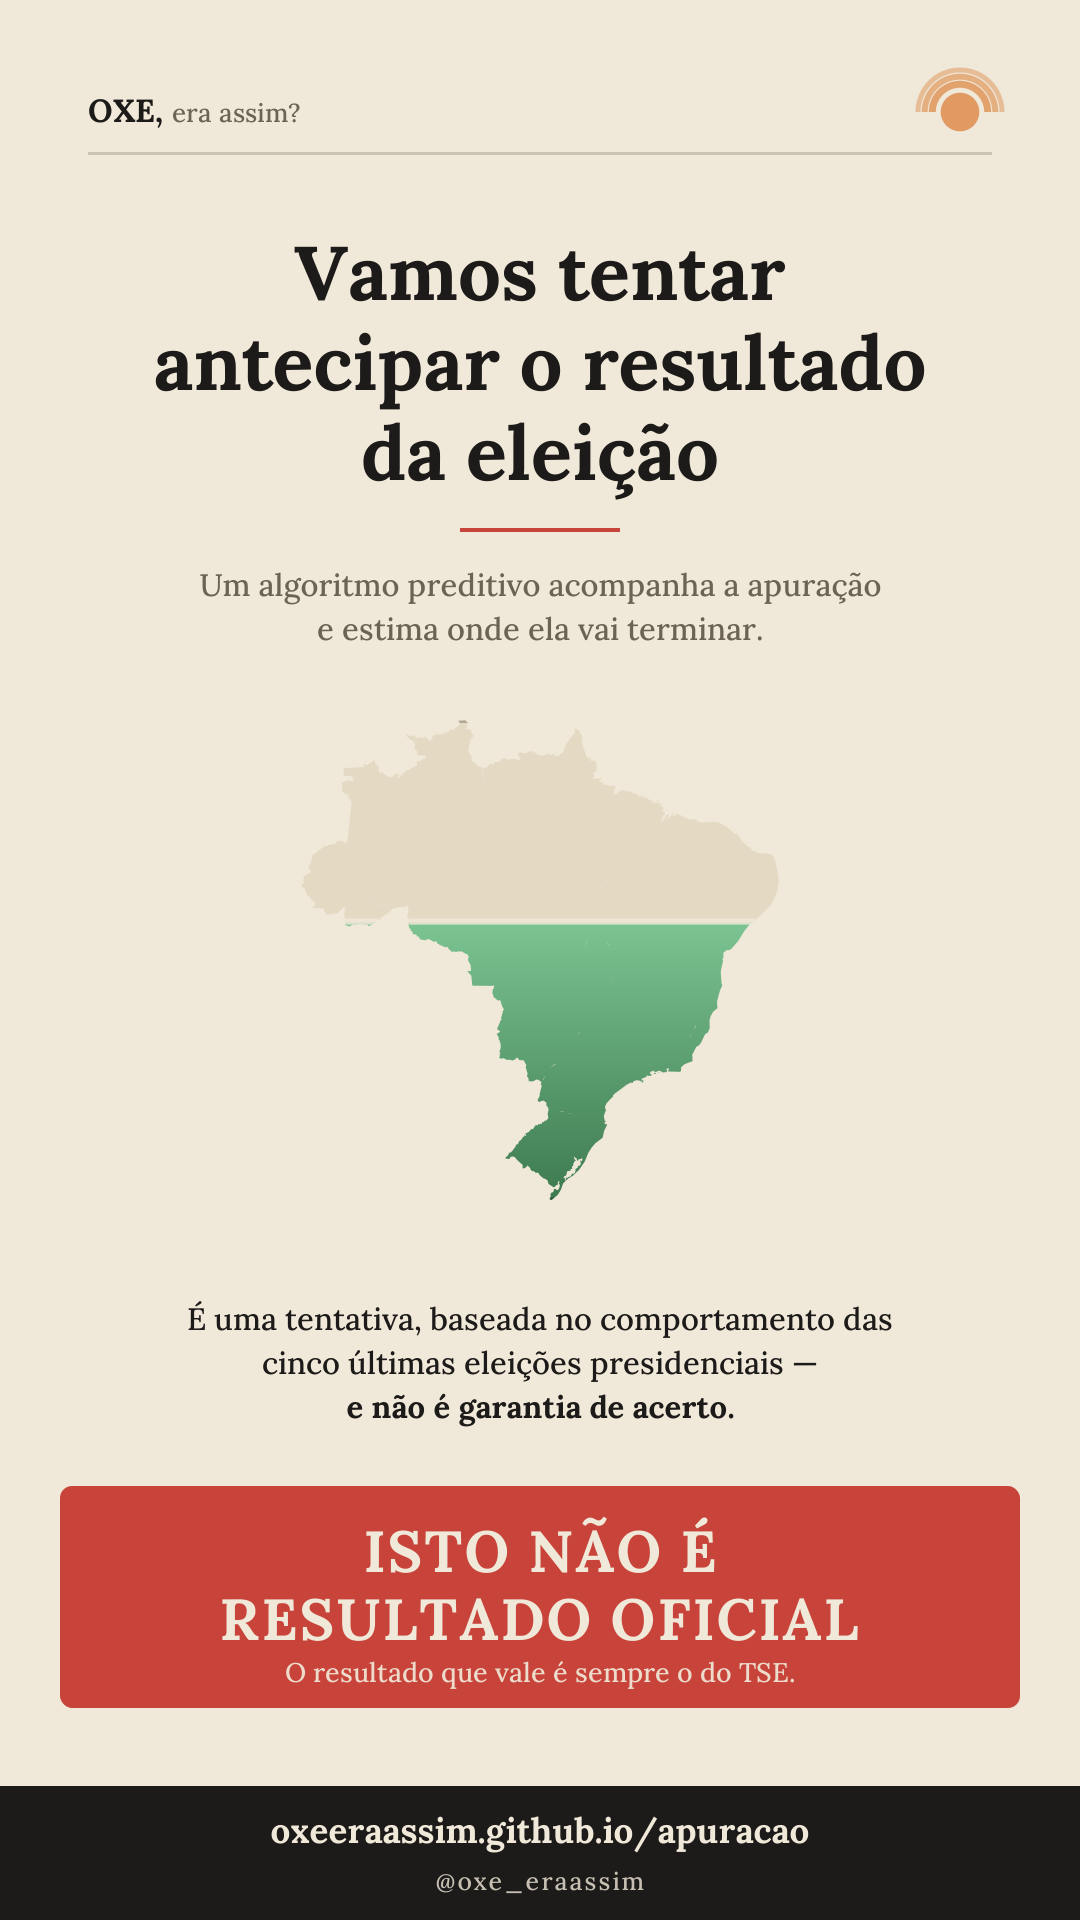
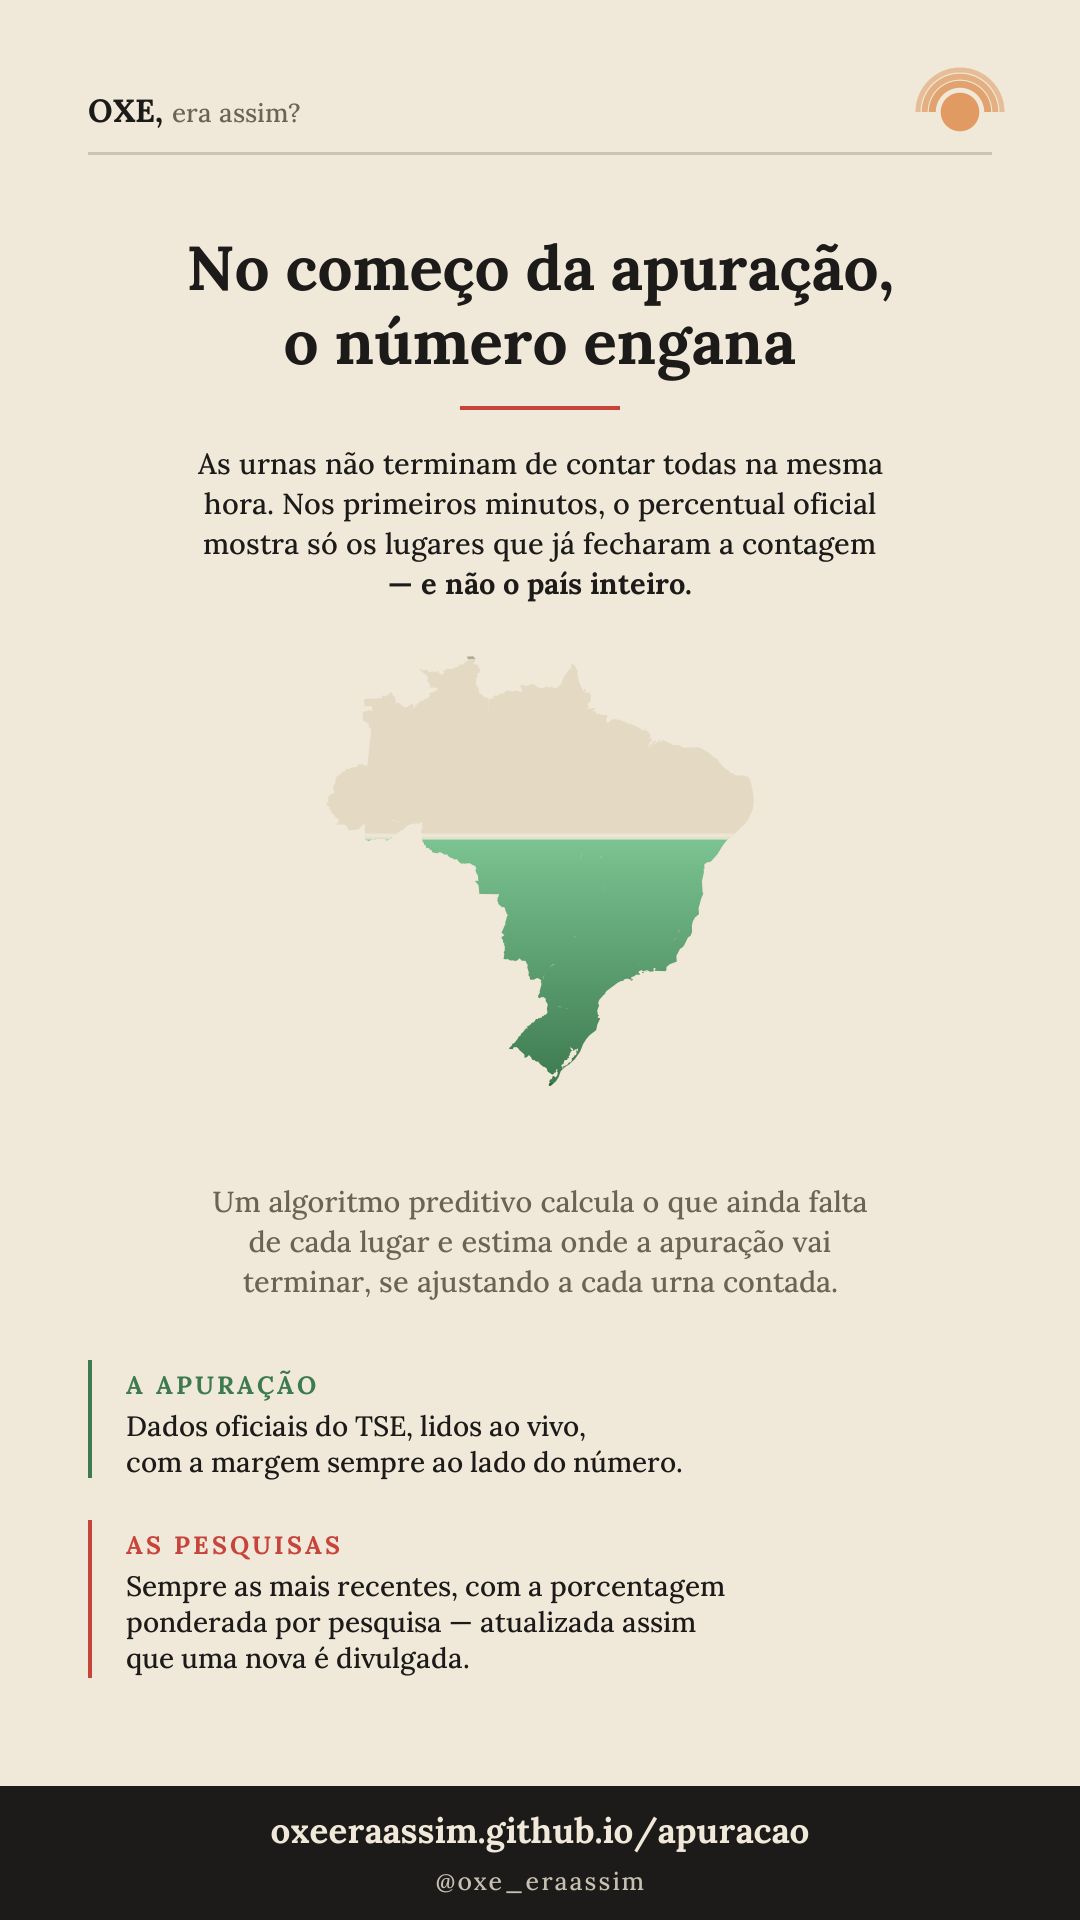
Enquanto a disputa couber na margem, a pagina diz que nao sabe
Antes, com a margem cruzando os 50%, a pagina exibia "Chance estimada de
vitoria: 93% para Fulano". Os dois lados ainda cabiam dentro da margem — ou
seja, o modelo nao sabia quem ganhou — e o numero de aparencia precisa
escondia exatamente isso.

Nao e preciosismo estatistico: e o que impede a pagina de virar municao. Um
print de "93% de chance de vitoria" as 17h20, sem a margem ao lado, circula
sozinho e perde o contexto em dois encaminhamentos. Agora, enquanto a
diferenca couber na margem, a frase e "a diferenca esta dentro da margem de
erro — ainda nao da para dizer quem ganhou".

Isso tambem e o que os stories de divulgacao prometem, entao a pagina
precisava cumprir antes de a divulgacao sair.

Divulgacao refeita junto: o gancho deixou de ser "vamos antecipar o
resultado" (que soa como quem vai dar o vencedor antes da hora) e passou a
ser "no comeco da apuracao, o numero engana" — mesma curiosidade, e descreve
o que a pagina de fato faz. Slide 2 ganhou o bloco SEM LADO: nao torce, nao
declara vencedor, mostra sempre a margem.

Claude-Session: https://claude.ai/code/session_01GYPZVw83ZkJR9nadBr32Ea

Changed region(s): [[0.0306, 0.4375, 0.9472, 0.9062], [0.1222, 0.125, 0.8556, 0.3438], [0.7944, 0.6875, 0.825, 0.7188]]

diff --git a/index.html b/index.html
@@ -963,8 +963,22 @@ function pinta(r, falhas, totais, horaTSE, observado) {
 
   const p = r.probPl;
   let txt;
+  // Quando a margem cruza os 50%, os dois lados ainda cabem dentro dela: o
+  // modelo simplesmente não sabe quem ganhou, e dizer "chance estimada de
+  // vitória: 93% para Fulano" esconde isso atrás de um número de aparência
+  // precisa.
+  //
+  // Isso não é preciosismo estatístico, é o que impede a página de virar
+  // munição. Um print de "93% de chance de vitória" às 17h20, sem a margem
+  // ao lado, circula sozinho e some do contexto em dois encaminhamentos.
+  // Enquanto a disputa couber na margem, a página diz exatamente isso.
+  const dentroDaMargem = r.faixaPl && r.faixaPl[0] < 50 && r.faixaPl[1] > 50;
+
   if (r.pctApurado < 1) {
     txt = "Apuração ainda muito inicial — abaixo de 1% a projeção é instável.";
+  } else if (dentroDaMargem) {
+    txt = "A diferença está dentro da margem de erro — ainda não dá para "
+        + "dizer quem ganhou.";
   } else if (p > 0.995) {
     txt = "O modelo dá mais de 99% de chance de vitória de " + nomes.pl + ".";
   } else if (p < 0.005) {
@@ -1675,7 +1689,7 @@ async function calcularAcerto() {
 // TSE) e é o que torna a instalação possível.
 if ("serviceWorker" in navigator && location.protocol.startsWith("http")) {
   window.addEventListener("load", () => {
-    navigator.serviceWorker.register("./sw.js?v=fbe5cac7f0").then((reg) => {
+    navigator.serviceWorker.register("./sw.js?v=d4ab9852bf").then((reg) => {
       // Procura versão nova ao abrir e de hora em hora. Uma aba deixada
       // aberta a noite toda recebe as correções sozinha.
       reg.update().catch(() => {});

diff --git a/apuracao.html b/apuracao.html
@@ -1442,8 +1442,22 @@ function pinta(r, falhas, totais, horaTSE, observado) {
 
   const p = r.probPl;
   let txt;
+  // Quando a margem cruza os 50%, os dois lados ainda cabem dentro dela: o
+  // modelo simplesmente não sabe quem ganhou, e dizer "chance estimada de
+  // vitória: 93% para Fulano" esconde isso atrás de um número de aparência
+  // precisa.
+  //
+  // Isso não é preciosismo estatístico, é o que impede a página de virar
+  // munição. Um print de "93% de chance de vitória" às 17h20, sem a margem
+  // ao lado, circula sozinho e some do contexto em dois encaminhamentos.
+  // Enquanto a disputa couber na margem, a página diz exatamente isso.
+  const dentroDaMargem = r.faixaPl && r.faixaPl[0] < 50 && r.faixaPl[1] > 50;
+
   if (r.pctApurado < 1) {
     txt = "Apuração ainda muito inicial — abaixo de 1% a projeção é instável.";
+  } else if (dentroDaMargem) {
+    txt = "A diferença está dentro da margem de erro — ainda não dá para "
+        + "dizer quem ganhou.";
   } else if (p > 0.995) {
     txt = "O modelo dá mais de 99% de chance de vitória de " + nomes.pl + ".";
   } else if (p < 0.005) {

diff --git a/sw.js b/sw.js
@@ -12,7 +12,7 @@
  *   não existir.
  */
 
-const VERSAO = "apuracao-fbe5cac7f0";
+const VERSAO = "apuracao-d4ab9852bf";
 
 // Só estes dois destinos externos são buscados pela página. Qualquer outro é
 // recusado aqui, de modo que nem um script injetado conseguiria usar o

diff --git a/programa/gerar_stories.py b/programa/gerar_stories.py
@@ -119,37 +119,55 @@ def mapa_svg(dy, alvo):
 
 
 def slide_1() -> str:
-    """O que é, e o aviso. Este é o slide que para o dedo."""
+    """O problema que a página resolve. Este é o slide que para o dedo."""
     p = [f'<svg xmlns="http://www.w3.org/2000/svg" width="{L}" height="{A}" '
          f'viewBox="0 0 {L} {A}">',
          f'<rect width="{L}" height="{A}" fill="{PAPEL}"/>',
          cabecalho()]
 
-    p.append(txt(L / 2, 300, "Vamos tentar", 76, "700"))
-    p.append(txt(L / 2, 390, "antecipar o resultado", 76, "700"))
-    p.append(txt(L / 2, 480, "da eleição", 76, "700"))
-    p.append(f'<rect x="{L / 2 - 80}" y="528" width="160" height="4" '
+    # O gancho é o problema, não a promessa. "Vamos antecipar o resultado"
+    # soa como quem vai dar o vencedor antes da hora — e é assim que um
+    # print da tela vira munição de campanha. "O número engana" desperta a
+    # mesma curiosidade e descreve o que a página realmente faz.
+    p.append(txt(L / 2, 290, "No começo da apuração,", 62, "700"))
+    p.append(txt(L / 2, 364, "o número engana", 62, "700"))
+    p.append(f'<rect x="{L / 2 - 80}" y="406" width="160" height="4" '
              f'fill="{VERMELHO}"/>')
 
-    p.append(txt(L / 2, 596, "Um algoritmo preditivo acompanha a apuração", 31,
-                 "400", TINTA_FRACA))
-    p.append(txt(L / 2, 640, "e estima onde ela vai terminar.", 31, "400",
-                 TINTA_FRACA))
-
-    p.append(mapa_svg(720, 480))
-
-    p.append(txt(L / 2, 1330, "É uma tentativa, baseada no comportamento das", 31,
+    p.append(txt(L / 2, 474, "As urnas não terminam de contar todas na mesma", 29,
                  "400", TINTA))
-    p.append(txt(L / 2, 1374, "cinco últimas eleições presidenciais —", 31, "400",
-                 TINTA))
-    p.append(txt(L / 2, 1418, "e não é garantia de acerto.", 31, "700", TINTA))
+    p.append(txt(L / 2, 514, "hora. Nos primeiros minutos, o percentual oficial", 29,
+                 "400", TINTA))
+    p.append(txt(L / 2, 554, "mostra só os lugares que já fecharam a contagem", 29,
+                 "400", TINTA))
+    p.append(txt(L / 2, 594, "— e não o país inteiro.", 29, "700", TINTA))
 
-    p.append(f'<rect x="60" y="1486" width="{L - 120}" height="222" rx="12" '
-             f'fill="{VERMELHO}"/>')
-    p.append(txt(L / 2, 1572, "ISTO NÃO É", 58, "700", PAPEL, esp="2"))
-    p.append(txt(L / 2, 1640, "RESULTADO OFICIAL", 58, "700", PAPEL, esp="2"))
-    p.append(txt(L / 2, 1682, "O resultado que vale é sempre o do TSE.", 27, "400",
-                 PAPEL, op="0.92"))
+    p.append(mapa_svg(656, 430))
+
+    p.append(txt(L / 2, 1212, "Um algoritmo preditivo calcula o que ainda falta", 29,
+                 "400", TINTA_FRACA))
+    p.append(txt(L / 2, 1252, "de cada lugar e estima onde a apuração vai", 29,
+                 "400", TINTA_FRACA))
+    p.append(txt(L / 2, 1292, "terminar, se ajustando a cada urna contada.", 29,
+                 "400", TINTA_FRACA))
+
+    y = 1360
+    p.append(f'<rect x="88" y="{y}" width="4" height="118" fill="{VERDE}"/>')
+    p.append(txt(126, y + 34, "A APURAÇÃO", 25, "700", VERDE, "start", esp="3"))
+    p.append(txt(126, y + 76, "Dados oficiais do TSE, lidos ao vivo,", 28, "400",
+                 TINTA, "start"))
+    p.append(txt(126, y + 112, "com a margem sempre ao lado do número.", 28, "400",
+                 TINTA, "start"))
+
+    y = 1520
+    p.append(f'<rect x="88" y="{y}" width="4" height="158" fill="{VERMELHO}"/>')
+    p.append(txt(126, y + 34, "AS PESQUISAS", 25, "700", VERMELHO, "start", esp="3"))
+    p.append(txt(126, y + 76, "Sempre as mais recentes, com a porcentagem", 28,
+                 "400", TINTA, "start"))
+    p.append(txt(126, y + 112, "ponderada por pesquisa — atualizada assim", 28,
+                 "400", TINTA, "start"))
+    p.append(txt(126, y + 148, "que uma nova é divulgada.", 28, "400", TINTA,
+                 "start"))
 
     p.append(rodape())
     p.append("</svg>")
@@ -157,56 +175,59 @@ def slide_1() -> str:
 
 
 def slide_2() -> str:
-    """O tamanho do erro, e o que a página tem."""
+    """O tamanho do erro e a postura da página."""
     p = [f'<svg xmlns="http://www.w3.org/2000/svg" width="{L}" height="{A}" '
          f'viewBox="0 0 {L} {A}">',
          f'<rect width="{L}" height="{A}" fill="{PAPEL}"/>',
          cabecalho()]
 
-    p.append(txt(L / 2, 290, "Quanto o modelo errou", 56, "700"))
-    p.append(txt(L / 2, 358, "nas últimas 5 eleições", 56, "700"))
-    p.append(txt(L / 2, 412, "(em pontos percentuais)", 27, "400", TINTA_FRACA))
+    p.append(txt(L / 2, 272, "E pode errar.", 58, "700"))
+    p.append(txt(L / 2, 342, "Veja o quanto.", 58, "700"))
+    p.append(txt(L / 2, 396, "Erro nas últimas 5 eleições, em pontos percentuais",
+                 26, "400", TINTA_FRACA))
 
-    topo = 466
-    alt = 92
+    topo = 440
+    alt = 88
     p.append(f'<rect x="72" y="{topo}" width="{L - 144}" height="{alt * 5 + 16}" '
              f'rx="14" fill="{PAPEL_2}"/>')
-    p.append(txt(195, topo + 58, "APURADO", 26, "700", TINTA_FRACA, esp="2"))
-    p.append(txt(610, topo + 58, "EM MÉDIA", 26, "700", TINTA_FRACA, esp="2"))
-    p.append(txt(890, topo + 58, "PIOR CASO", 26, "700", TINTA_FRACA, esp="2"))
+    p.append(txt(195, topo + 56, "APURADO", 25, "700", TINTA_FRACA, esp="2"))
+    p.append(txt(610, topo + 56, "EM MÉDIA", 25, "700", TINTA_FRACA, esp="2"))
+    p.append(txt(890, topo + 56, "PIOR CASO", 25, "700", TINTA_FRACA, esp="2"))
     for i, (marco, medio, pior) in enumerate(ERROS):
-        y = topo + alt * (i + 1) + 62
-        p.append(f'<rect x="100" y="{y - 64}" width="{L - 200}" height="2" '
+        y = topo + alt * (i + 1) + 58
+        p.append(f'<rect x="100" y="{y - 60}" width="{L - 200}" height="2" '
                  f'fill="{TINTA}" opacity="0.12"/>')
-        p.append(txt(195, y, marco, 44, "700", TINTA))
-        p.append(txt(610, y, "± " + medio, 44, "700", VERDE))
-        p.append(txt(890, y, "± " + pior, 44, "400", TINTA_FRACA))
+        p.append(txt(195, y, marco, 42, "700", TINTA))
+        p.append(txt(610, y, "± " + medio, 42, "700", VERDE))
+        p.append(txt(890, y, "± " + pior, 42, "400", TINTA_FRACA))
 
-    y = topo + alt * 5 + 90
-    p.append(txt(L / 2, y, "Numa disputa decidida por menos que isso,", 30, "400",
-                 TINTA))
-    p.append(txt(L / 2, y + 44, "a projeção pode apontar o candidato errado", 30,
+    y = topo + alt * 5 + 86
+    p.append(txt(L / 2, y, "Numa disputa decidida por menos que isso, a", 29,
+                 "400", TINTA))
+    p.append(txt(L / 2, y + 40, "projeção pode apontar o candidato errado", 29,
                  "700", TINTA))
-    p.append(txt(L / 2, y + 88, "no começo da noite.", 30, "700", TINTA))
+    p.append(txt(L / 2, y + 80, "no começo da noite.", 29, "700", TINTA))
 
-    # ---- o que a página tem ----
-    y = 1320
-    p.append(f'<rect x="88" y="{y}" width="4" height="124" fill="{VERDE}"/>')
-    p.append(txt(126, y + 34, "A APURAÇÃO", 26, "700", VERDE, "start", esp="3"))
-    p.append(txt(126, y + 78, "Projeção ao vivo com os dados oficiais do", 29,
-                 "400", TINTA, "start"))
-    p.append(txt(126, y + 116, "TSE, ajustada a cada urna contada.", 29, "400",
-                 TINTA, "start"))
+    # ---- a postura, que é o que protege a página ----
+    y = 1130
+    p.append(f'<rect x="60" y="{y}" width="{L - 120}" height="268" rx="12" '
+             f'fill="none" stroke="{TINTA}" stroke-width="3" opacity="0.35"/>')
+    p.append(txt(L / 2, y + 62, "SEM LADO", 30, "700", TINTA, esp="5"))
+    p.append(txt(L / 2, y + 118, "A página não torce por ninguém e não", 29, "400",
+                 TINTA))
+    p.append(txt(L / 2, y + 158, "declara vencedor. Mostra sempre a margem", 29,
+                 "400", TINTA))
+    p.append(txt(L / 2, y + 198, "junto do número — e, enquanto a diferença", 29,
+                 "400", TINTA))
+    p.append(txt(L / 2, y + 238, "couber nela, diz que ainda não dá para saber.",
+                 29, "700", TINTA))
 
-    y = 1490
-    p.append(f'<rect x="88" y="{y}" width="4" height="164" fill="{VERMELHO}"/>')
-    p.append(txt(126, y + 34, "AS PESQUISAS", 26, "700", VERMELHO, "start", esp="3"))
-    p.append(txt(126, y + 78, "Sempre as mais recentes, com a porcentagem", 29,
-                 "400", TINTA, "start"))
-    p.append(txt(126, y + 116, "ponderada por pesquisa — atualizada assim", 29,
-                 "400", TINTA, "start"))
-    p.append(txt(126, y + 154, "que uma nova é divulgada.", 29, "400", TINTA,
-                 "start"))
+    p.append(f'<rect x="60" y="1456" width="{L - 120}" height="230" rx="12" '
+             f'fill="{VERMELHO}"/>')
+    p.append(txt(L / 2, 1544, "ISTO NÃO É", 58, "700", PAPEL, esp="2"))
+    p.append(txt(L / 2, 1612, "RESULTADO OFICIAL", 58, "700", PAPEL, esp="2"))
+    p.append(txt(L / 2, 1656, "O resultado que vale é sempre o do TSE.", 27, "400",
+                 PAPEL, op="0.92"))
 
     p.append(rodape(escuro=False))
     p.append("</svg>")
